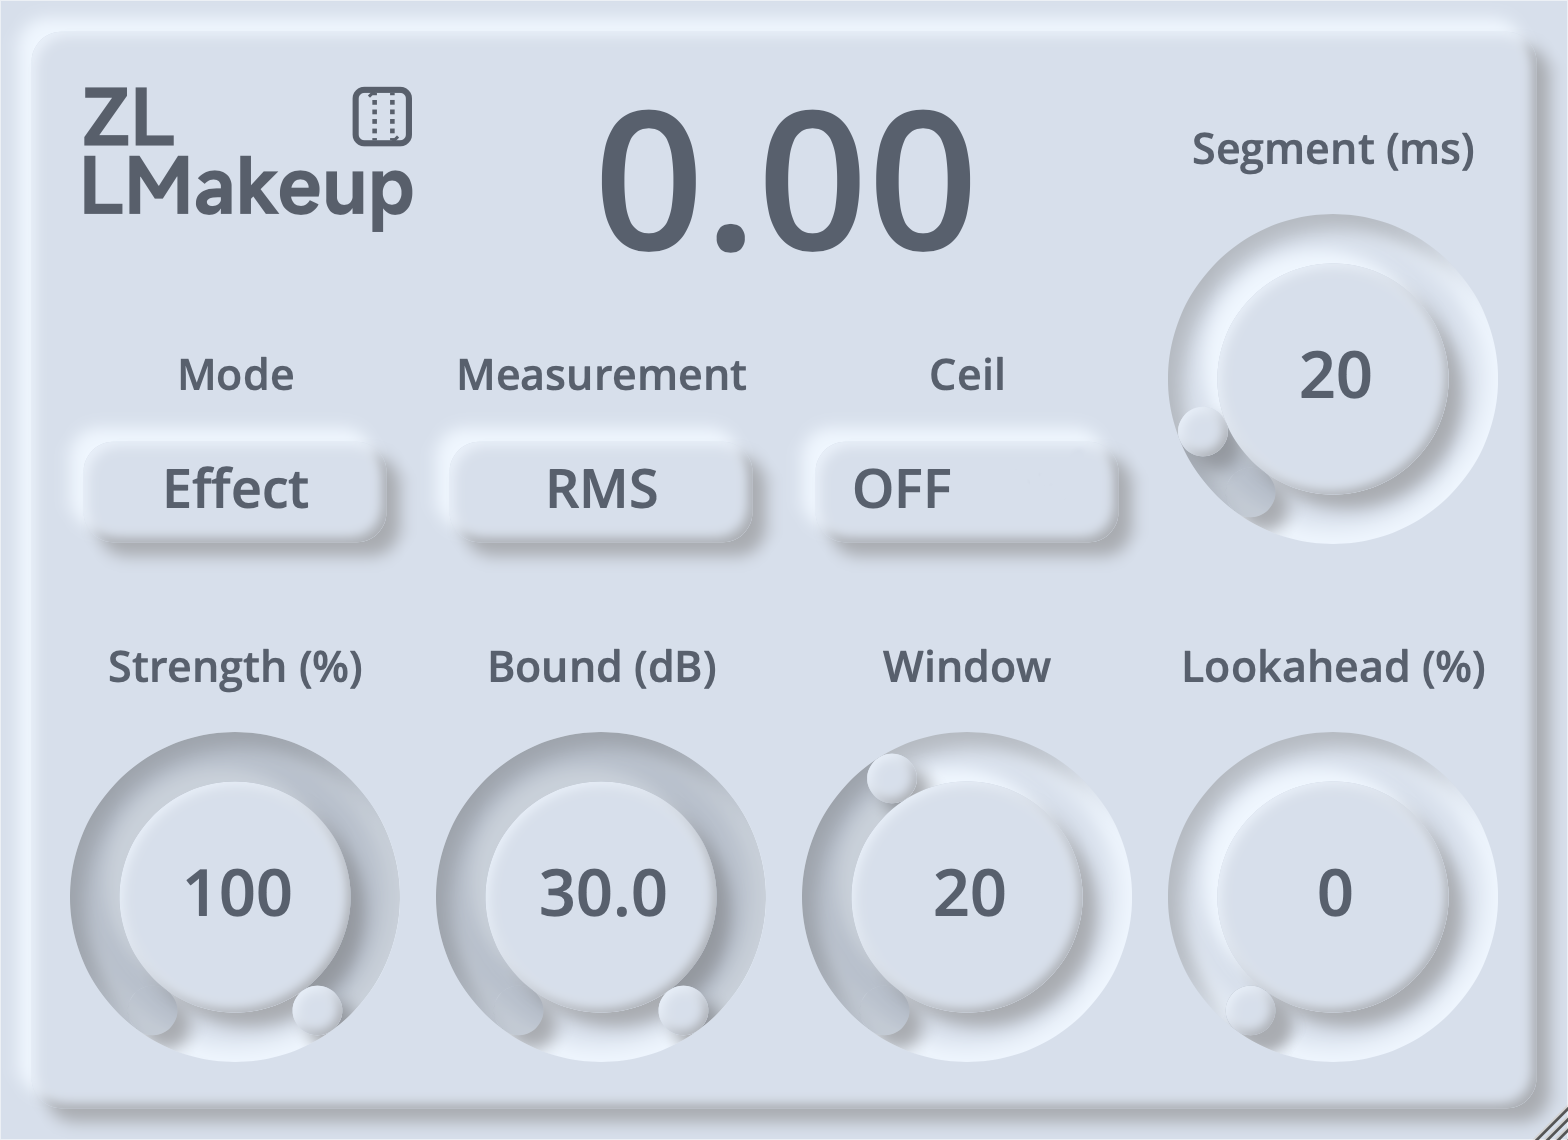
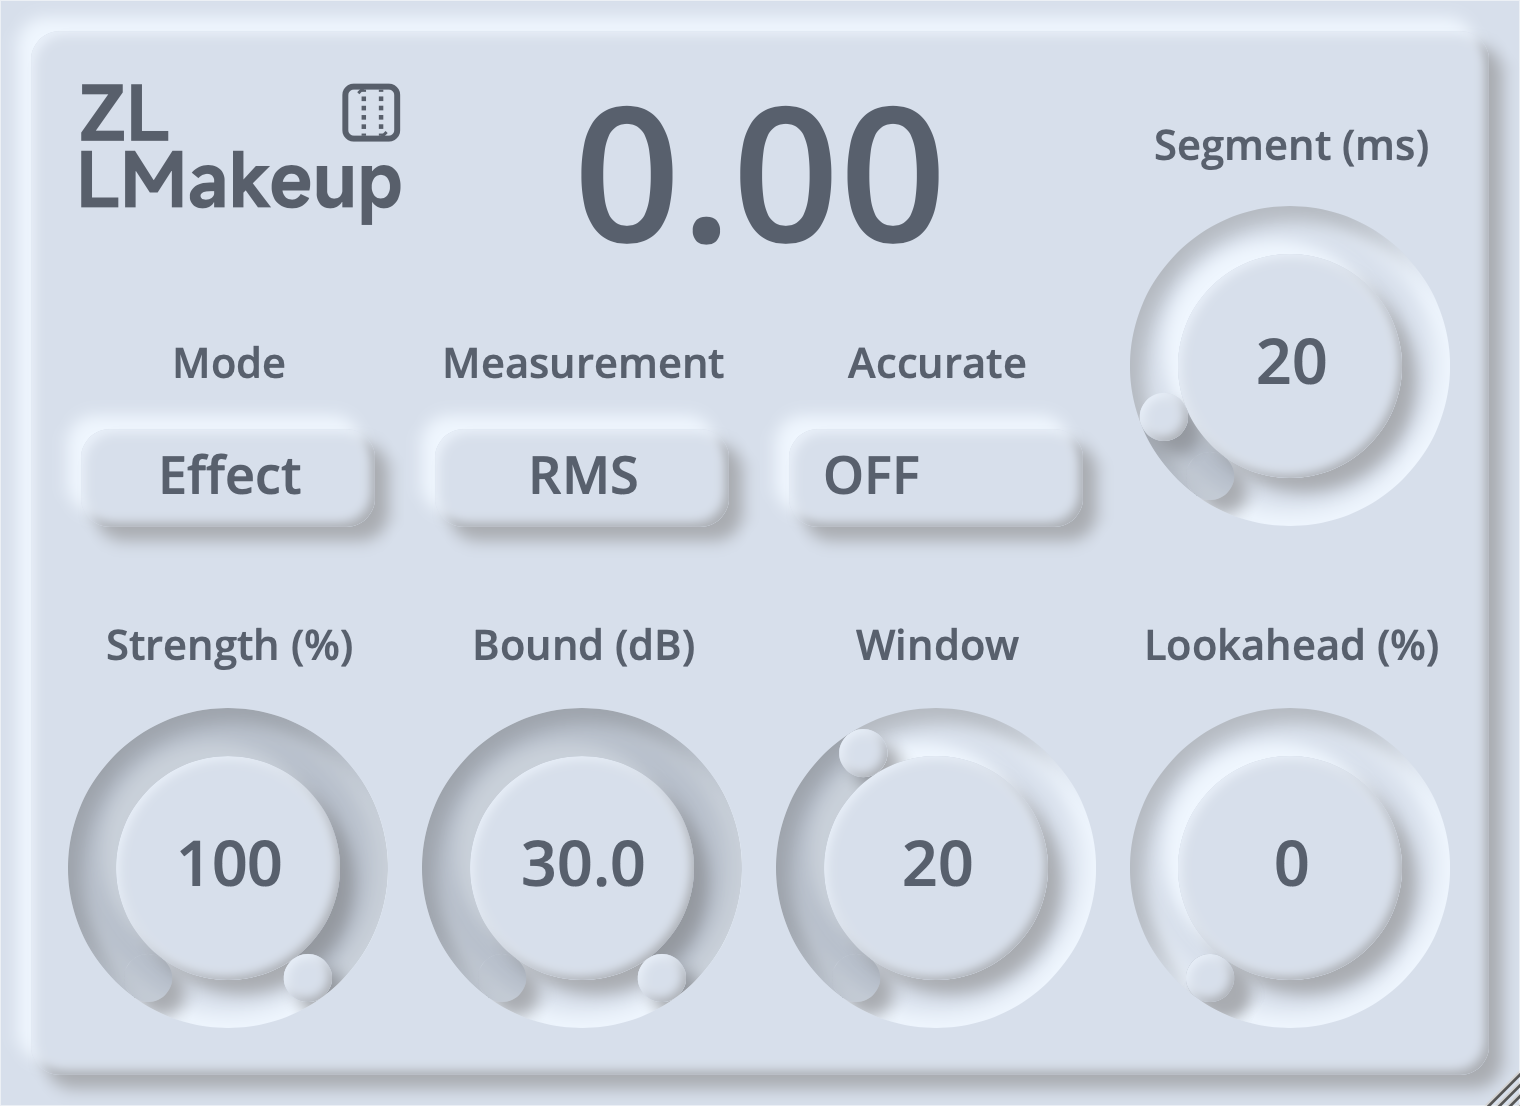
add accurate

diff --git a/Source/DSP/Controller.cpp b/Source/DSP/Controller.cpp
@@ -22,6 +22,8 @@ Controller<FloatType>::Controller(juce::AudioProcessor *processor,
 
 template<typename FloatType>
 void Controller<FloatType>::prepareToPlay(juce::dsp::ProcessSpec spec) {
+    mainTracker.prepareToPlay(spec);
+    auxTracker.prepareToPlay(spec);
     spec.numChannels = spec.numChannels * 2;
     fixedAudioBuffer.prepareToPlay(spec);
 }
@@ -36,6 +38,9 @@ void Controller<FloatType>::processBlock(juce::AudioBuffer<FloatType> &buffer) {
     if (std::abs(lastBufferSize + lastBufferTime -
                  currentPos->getTimeInSamples().orFallback(0)) > buffer.getNumSamples()) {
         isPlaying.store(false);
+        for (auto &f: {&mainSubTracker, &auxSubTracker, &mainTracker, &auxTracker}) {
+            (*f).reset();
+        }
     } else {
         isPlaying.store(true);
     }
@@ -49,13 +54,18 @@ void Controller<FloatType>::processBlock(juce::AudioBuffer<FloatType> &buffer) {
             // calculate loudness makeup
             auto mainBusNumChannel = static_cast<int>(
                     fixedAudioBuffer.getSubSpec().numChannels / 2);
-            mainPreTracker.process(
+            mainSubTracker.process(
                     fixedAudioBuffer.getSubBufferChannels(0, mainBusNumChannel));
-            auxTracker.process(fixedAudioBuffer.getSubBufferChannels(mainBusNumChannel,
-                                                                     2 *
-                                                                     mainBusNumChannel));
-            auto actualGain = auxTracker.getMomentaryLoudness() -
-                              mainPreTracker.getMomentaryLoudness();
+            auxSubTracker.process(fixedAudioBuffer.getSubBufferChannels(mainBusNumChannel,
+                                                                        2 *
+                                                                        mainBusNumChannel));
+            auto actualGain = auxSubTracker.getMomentaryLoudness() -
+                              mainSubTracker.getMomentaryLoudness();
+            if (ceil.load()) {
+                actualGain += (auxTracker.getIntegratedLoudness() -
+                               mainTracker.getIntegratedLoudness()) *
+                              static_cast<FloatType>(1.01);
+            }
             actualGain = juce::jlimit(-bound.load(), bound.load(), actualGain);
 
             // apply loudness makeup
@@ -64,16 +74,6 @@ void Controller<FloatType>::processBlock(juce::AudioBuffer<FloatType> &buffer) {
                                                          static_cast<size_t>(mainBusNumChannel));
             delayLineDSP.process(
                     juce::dsp::ProcessContextReplacing<FloatType>(mainBlock));
-
-            if (ceil.load()) {
-                actualGain = juce::jmin(actualGain,
-                                        -juce::Decibels::gainToDecibels(
-                                                fixedAudioBuffer.getSubBufferChannels(
-                                                        0,
-                                                        mainBusNumChannel).getMagnitude(
-                                                        0,
-                                                        static_cast<int>(fixedAudioBuffer.getSubSpec().maximumBlockSize))));
-            }
 
             gain.store(actualGain);
             gainDSP.setGainDecibels(
@@ -84,6 +84,10 @@ void Controller<FloatType>::processBlock(juce::AudioBuffer<FloatType> &buffer) {
             fixedAudioBuffer.pushSubBuffer();
         }
         fixedAudioBuffer.popBuffer(buffer);
+        if (ceil.load()) {
+            mainTracker.process(m_processor->getBusBuffer(buffer, true, 0));
+            auxTracker.process(m_processor->getBusBuffer(buffer, true, 1));
+        }
     }
     if (modeID.load() == ZLDsp::mode::envelope) {
         auto currentGain = juce::Decibels::decibelsToGain(
@@ -108,7 +112,7 @@ void Controller<FloatType>::setSegment(FloatType v) {
     auto subSpec = fixedAudioBuffer.getSubSpec();
     auto subBusSpec = subSpec;
     subBusSpec.numChannels = subBusSpec.numChannels / 2;
-    for (auto &f: {&mainPreTracker, &mainAfterTracker, &auxTracker}) {
+    for (auto &f: {&mainSubTracker, &auxSubTracker}) {
         (*f).prepareToPlay(subBusSpec);
     }
     delayLineDSP.prepare(subBusSpec);
@@ -135,7 +139,7 @@ void Controller<FloatType>::setLookahead(FloatType v) {
 template<typename FloatType>
 void Controller<FloatType>::setWindow(FloatType v) {
     window.store(v);
-    for (auto &f: {&mainPreTracker, &mainAfterTracker, &auxTracker}) {
+    for (auto &f: {&mainSubTracker, &auxSubTracker}) {
         (*f).setMomentarySize(static_cast<size_t>(v));
     }
     setLookahead(lookahead.load());
@@ -164,19 +168,23 @@ void Controller<FloatType>::setModeID(int ID) {
 template<typename FloatType>
 void Controller<FloatType>::setMeasurementID(int ID) {
     if (ID == ZLDsp::measurement::rms) {
-        mainPreTracker.setKWeight(false);
-        mainAfterTracker.setKWeight(false);
-        auxTracker.setKWeight(false);
+        for (auto &f: {&mainSubTracker, &auxSubTracker, &mainTracker, &auxTracker}) {
+            (*f).setKWeight(false);
+        }
     } else if (ID == ZLDsp::measurement::k_rms) {
-        mainPreTracker.setKWeight(true);
-        mainAfterTracker.setKWeight(true);
-        auxTracker.setKWeight(true);
+        for (auto &f: {&mainSubTracker, &auxSubTracker, &mainTracker, &auxTracker}) {
+            (*f).setKWeight(true);
+        }
     }
 }
 
 template<typename FloatType>
 void Controller<FloatType>::setCeil(bool f) {
     ceil.store(f);
+    if (f) {
+        mainTracker.reset();
+        auxTracker.reset();
+    }
 }
 
 template<typename FloatType>

diff --git a/Source/DSP/Tracker/RMSTracker.h b/Source/DSP/Tracker/RMSTracker.h
@@ -25,10 +25,10 @@ public:
 
     inline FloatType getMomentaryLoudness() override {
         FloatType meanSquare = 0;
-        if (size > 0) {
-            meanSquare = mLoudness / static_cast<FloatType>(size);
+        if (loudness.size() > 0) {
+            meanSquare = mLoudness / static_cast<FloatType>(loudness.size());
         }
-        return juce::Decibels::gainToDecibels(std::sqrt(meanSquare));
+        return juce::Decibels::gainToDecibels(meanSquare) * static_cast<FloatType>(0.5);
     }
 
     inline FloatType getIntegratedLoudness() override {
@@ -36,7 +36,7 @@ public:
         if (numBuffer > 0) {
             meanSquare = iLoudness / static_cast<FloatType>(numBuffer);
         }
-        return juce::Decibels::gainToDecibels(std::sqrt(meanSquare));
+        return juce::Decibels::gainToDecibels(meanSquare) * static_cast<FloatType>(0.5);
     }
 
     void process(const juce::AudioBuffer<FloatType> &buffer) override;

diff --git a/Source/DSP/Tracker/RMSTracker.cpp b/Source/DSP/Tracker/RMSTracker.cpp
@@ -74,12 +74,12 @@ void RMSTracker<FloatType>::process(const juce::AudioBuffer<FloatType> &buffer) 
     }
 
     _ms = _ms / static_cast<FloatType> (bufferCopy.getNumSamples());
-    if (loudness.size() == size) {
+    loudness.push_back(_ms);
+    mLoudness += _ms;
+    while (loudness.size() > size) {
         mLoudness -= loudness.front();
         loudness.pop_front();
     }
-    loudness.push_back(_ms);
-    mLoudness += _ms;
 
     iLoudness += _ms;
     numBuffer += 1;

diff --git a/Source/DSP/Controller.h b/Source/DSP/Controller.h
@@ -55,7 +55,8 @@ private:
     int64_t lastBufferSize = 0, lastBufferTime = 0;
 
     FixedAudioBuffer<FloatType> fixedAudioBuffer;
-    RMSTracker<FloatType> mainPreTracker, mainAfterTracker, auxTracker;
+    RMSTracker<FloatType> mainSubTracker, auxSubTracker;
+    RMSTracker<FloatType> mainTracker, auxTracker;
 };
 
 template<typename FloatType>

diff --git a/Source/DSP/dsp_defines.h b/Source/DSP/dsp_defines.h
@@ -87,8 +87,8 @@ namespace ZLDsp {
 
     class ceil : public BoolParameters<ceil> {
     public:
-        auto static constexpr ID = "ceil";
-        auto static constexpr name = "Ceil";
+        auto static constexpr ID = "accurate";
+        auto static constexpr name = "Accurate";
         auto static constexpr defaultV = false;
     };
 
